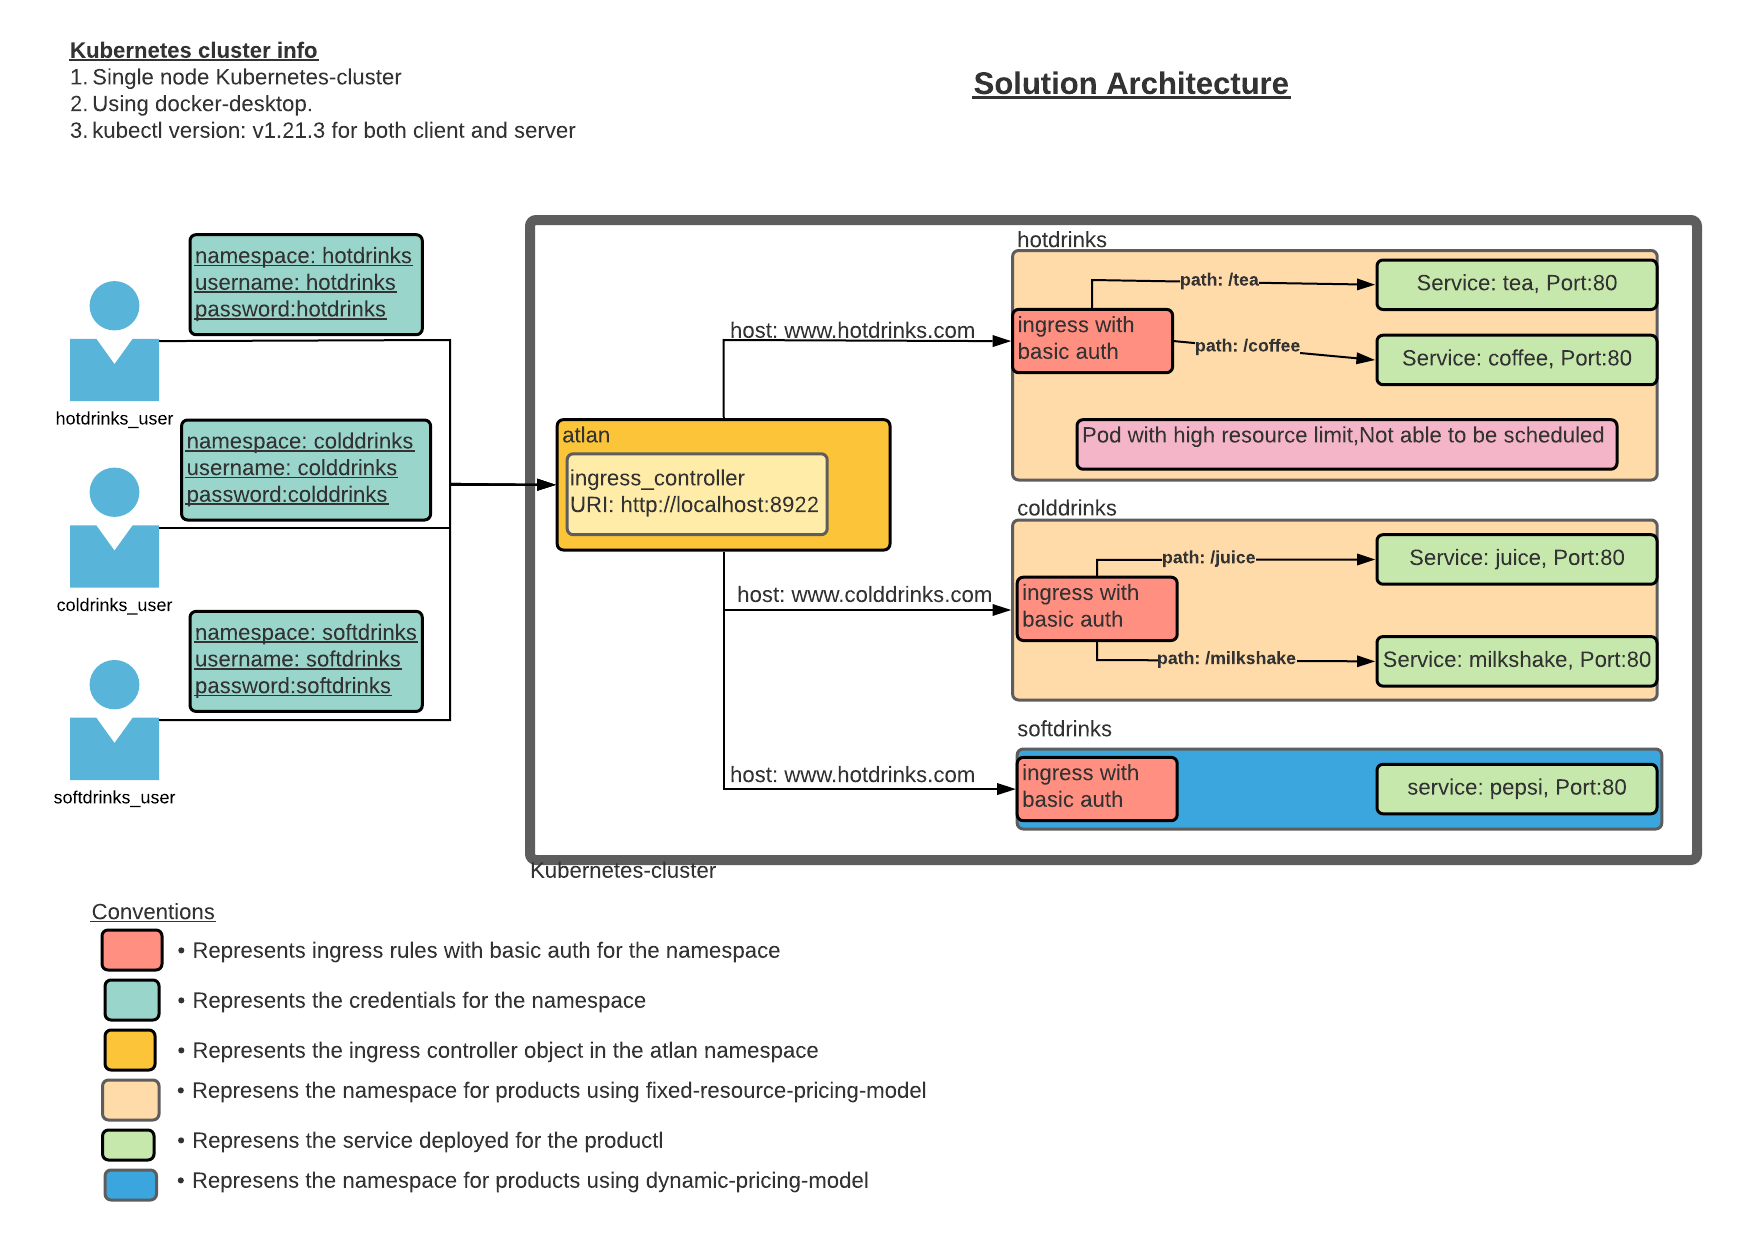
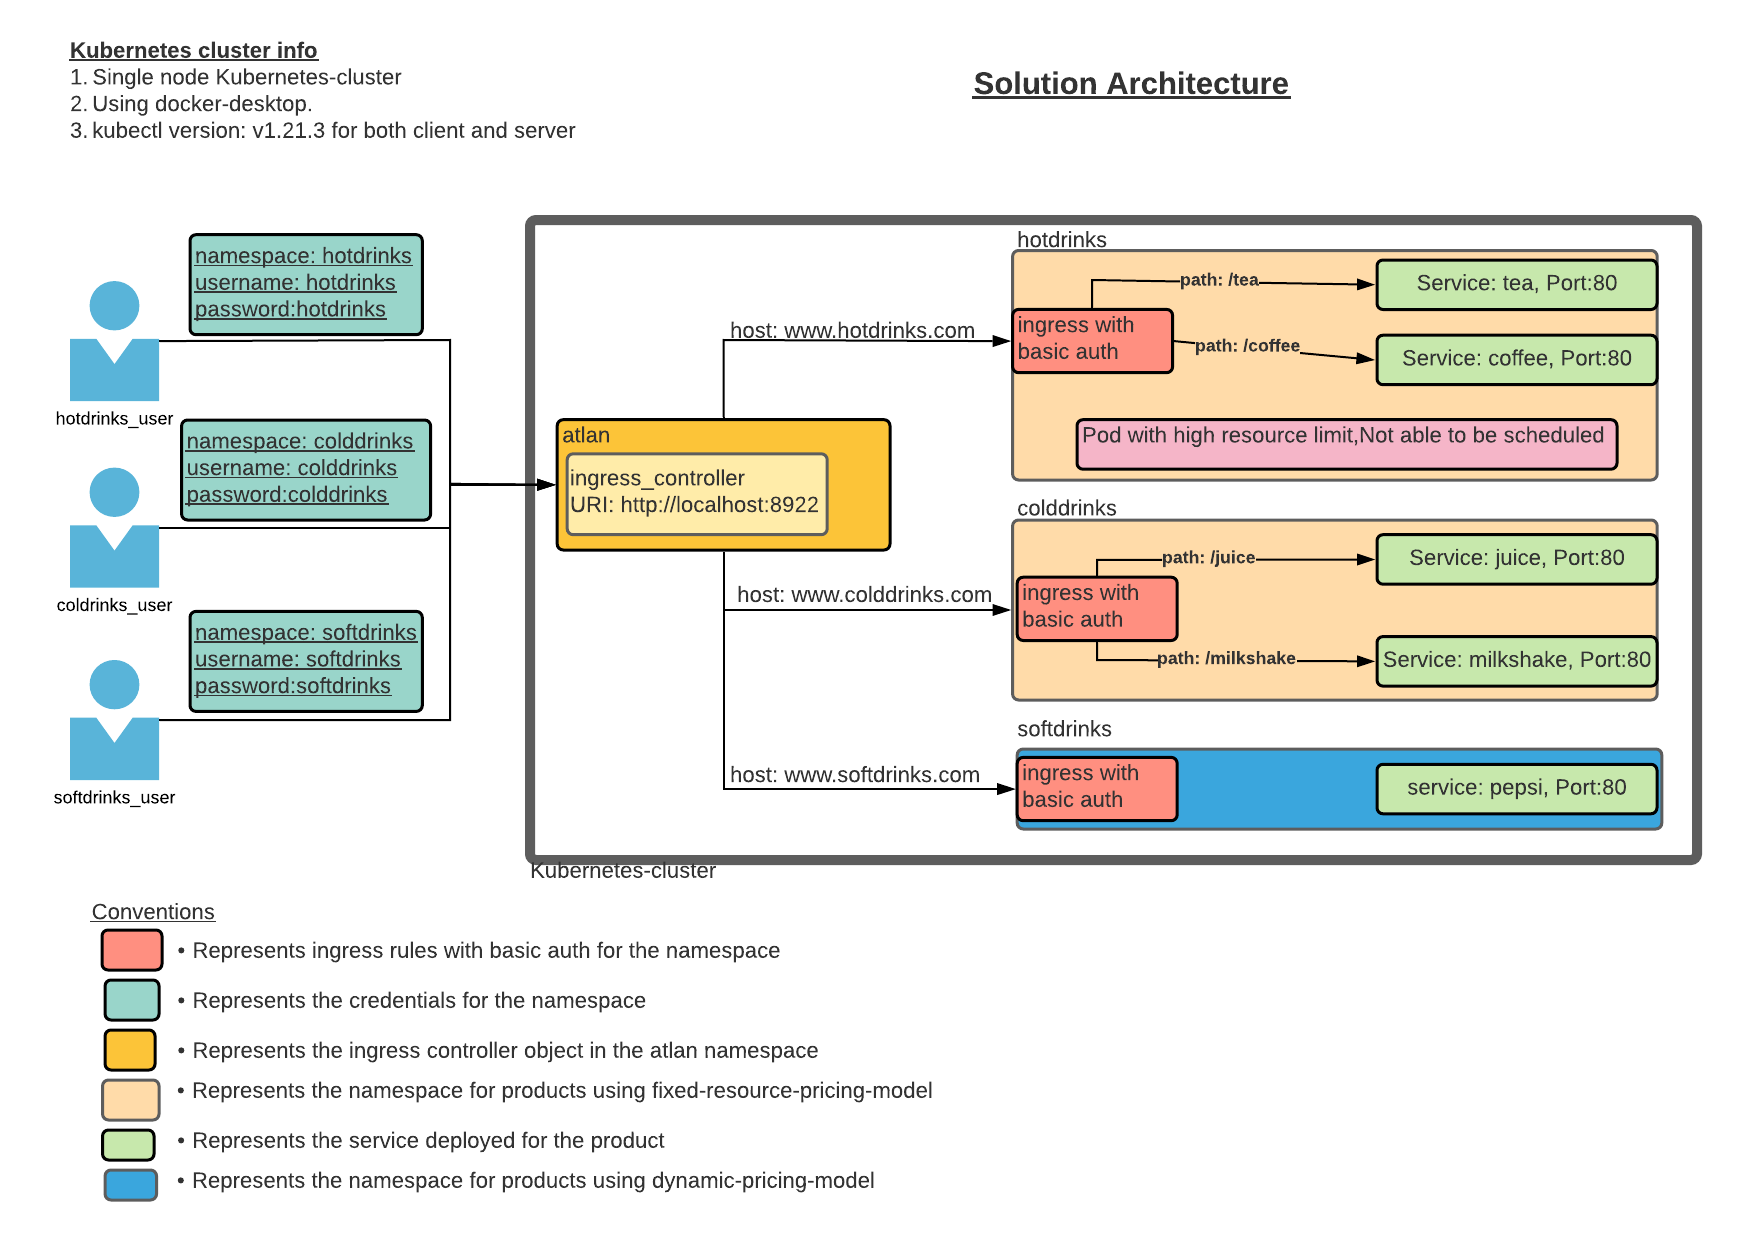
chkin-3

Changed region(s): [[0.1554, 0.8424, 0.5285, 0.9672], [0.4974, 0.5928, 0.5596, 0.624]]

diff --git a/README.md b/README.md
@@ -5,10 +5,10 @@ link : https://www.notion.so/Hiring-Task-Senior-Cloud-Engineer-b67d07ffec45444f9
 To evaluate the Multi-tenancy approach and provide a detailed report with a working model for the multi-tenancy approach in Kubernetes. 
 
 # Solution
-The solution provides a working business model for multi-tenancy approach in Kubernetes. The solution is designed for a company named 'Atlan' that provides SaaS-offering hosting solution to the customers. For this demo, we will be treating 'Atlan' as the service provider company. 
+The solution provides a working business model for multi-tenancy approach in Kubernetes. The solution is designed for a company named 'Atlan' that provides service hosting solution to the customers usint SaaS business model. For this demo, we will be treating 'Atlan' as the service provider company. 
 Major components of the given business model is as given below.
 
-! Company | Business Role | Namespace in cluster | Service offered/consumed | 
+| Company | Business Role | Namespace in cluster | Service offered/consumed | 
 |---------|---------------|----------------------|---------------------------|
 | Atlan | Service Provider | atlan | Offers a hosting platform for consumers |
 | hotdrinks_corporation | consumer using Fixed-resource-quota model | hotdrinks | Service Name: tea, coffee |
@@ -33,3 +33,44 @@ Major components of the given business model is as given below.
 
 # Architecture
 ![Architecture](architecture_diagram.png)
+
+# Solution : Deep dive
+1. The solution is implemented using name based virtual hosting model(reference doc: https://kubernetes.io/docs/concepts/services-networking/ingress/#name-based-virtual-hosting) of ingress. Using this approach multiple consumers can be managed using single Public facing IP. This helps in cost reduction for atlan.
+2. Each customer will be identified as a namespace in the k8s cluster owned by atlan.
+3. We will use nginx as the ingress controller and it will be deployed in the atlan namespace.
+4. Any incoming traffic hitting the ingress controller will be forwarded to the service in the corresponding namespace if it satisfies the auth criteria and ingress rules configured in the ingress rules deployed for the namespace.
+5. All the service of the same namespace will be handled by single ingress object for the correspondin namespace.
+6. Resource isolation is achieved using the namespaces.
+7. Namespaces resource limits is controlled using the ResourceQuota object created for the namespace.
+8. Kubernetes cluster is owned and managed by atlan.
+
+# Setup details:
+1. Entire solution is implemented using a kubernetes cluster running on local windows laptop.
+2. We are running docker-desktop provided kubernetes cluster on the laptop. This is a single node kubernetes cluster solution.
+3. Kubernetes cluster details as given below:
+----
+1. cluster-info
+
+`
+> kubectl.exe cluster-info
+Kubernetes control plane is running at https://kubernetes.docker.internal:6443
+CoreDNS is running at https://kubernetes.docker.internal:6443/api/v1/namespaces/kube-system/services/kube-dns:dns/proxy
+`
+
+2. kubectl version 
+
+`      
+> kubectl.exe version
+Client Version: version.Info{Major:"1", Minor:"21", GitVersion:"v1.21.3", GitCommit:"ca643a4d1f7bfe34773c74f79527be4afd95bf39", GitTreeState:"clean", BuildDate:"2021-07-15T21:04:39Z", GoVersion:"go1.16.6", Compiler:"gc", Platform:"windows/amd64"}
+Server Version: version.Info{Major:"1", Minor:"21", GitVersion:"v1.21.3", GitCommit:"ca643a4d1f7bfe34773c74f79527be4afd95bf39", GitTreeState:"clean", BuildDate:"2021-07-15T20:59:07Z", GoVersion:"go1.16.6", Compiler:"gc", Platform:"linux/amd64"}          
+`
+----
+
+# Solution pre-requisites
+1. helm(version-3)
+2. openssl: Required to create the named-auth file.
+3. kubectl
+4. Azure samples chart (https://azure-samples.github.io/helm-charts/) used to bringup services for the demo
+    * Add the sample chart using this command. (helm repo add azure-samples https://azure-samples.github.io/helm-charts/)
+
+

diff --git a/colddrinks/colddrinks.md b/colddrinks/colddrinks.md
@@ -1,0 +1,62 @@
+# Solution Implementation
+1. These are the steps to be performed in the colddrinks namespace.
+
+# Steps
+## Namespace creation
+    `kubectl create ns colddrinks`
+
+## Set resource quota
+1. We need to set the resource quota for colddrinks company because the colddrinks consumer is using Fixed-resource-quota model.
+2. Implement a ResourceQuota object in the colddrinks namespace using the [quota.yaml](quota.yaml) file.
+
+    `kubectl apply -f quota.yaml -n colddrinks`
+
+## Deploy services in the colddrinks namespace
+1. Deploy juice service.
+----
+`
+helm install juice azure-samples/aks-helloworld `
+    --namespace colddrinks `
+    --set title="Time to drink juice          -colddrinks_corporation" `
+    --set serviceName="juice"
+`
+
+2. Deploy milkshake service
+
+`
+helm install milkshake azure-samples/aks-helloworld `
+    --namespace colddrinks `
+    --set title="Time to drink milkshake          -colddrinks_corporation" `
+    --set serviceName="milkshake"
+
+----
+
+## Create a named-auth file using openssl
+
+    `USER="colddrinks"; PASSWORD="colddrinks"; echo "${USER}:$(openssl passwd -stdin -apr1 <<< ${PASSWORD})" >> auth`
+
+## Create a basic-auth secret object
+    ` kubectl create secret generic basic-auth --from-file=auth -n colddrinks`
+
+## Deploy the ingress rules
+1. Ingress rules are defined in the [newingress_colddrinks.yaml](newingress_colddrinks.yaml) file.
+2. Deploy the ingress rules in the colddrinks namespace.
+
+        ` kubectl apply -f newingress_colddrinks.yaml -n colddrinks`
+
+## Check the resourcequota.
+1. Check the resourcequota due to the resource deployed in the colddrinks namespace.
+
+        `kubectl get resourcequota resourcequota --namespace=colddrinks --output=yaml`
+2. Observe the namespace has unused mem and cpu limits available in the colddrinks namespace.
+
+## Deploy resources to exceed the resourcequota limits
+1. Try to deploy a pod resource that has resource requirements within the namespace limits.
+    ` kubectl apply -f allowed_pod.yaml -n colddrinks`
+2. Deploy another pod so that resource requirements exceed the namespace limits.
+    ` kubectl apply -f failed_pod.yaml -n colddrinks`
+3. Verify the second pod deployment failed with following error.
+`
+PS C:\Users\bibhavj\k8s\bibhav_atlan\colddrinks> kubectl.exe apply -f .\failed_pod.yaml -n colddrinks
+Error from server (Forbidden): error when creating ".\\failed_pod.yaml": pods "failedpod" is forbidden: exceeded quota: resourcequota, requested: requests.cpu=150m,requests.memory=161061273600m, used: requests.cpu=150m,requests.memory=161061273600m, limited: requests.cpu=250m,requests.memory=256Mi
+`

diff --git a/hotdrinks/hotdrinks.md b/hotdrinks/hotdrinks.md
@@ -1,0 +1,52 @@
+# Solution Implementation
+1. These are the steps to be performed in the hotdrinks namespace.
+
+# Steps
+## Namespace creation
+    `kubectl create ns hotdrinks`
+
+## Set resource quota
+1. We need to set the resource quota for hotdrinks company because the hotdrinks consumer is using Fixed-resource-quota model.
+2. Implement a ResourceQuota object in the colddrinks namespace using the [quota.yaml](quota.yaml) file.
+
+    `kubectl apply -f quota.yaml -n hotdrinks`
+
+## Deploy services in the hotdrinks namespace
+1. Deploy tea service.
+----
+`
+helm install tea azure-samples/aks-helloworld `
+    --namespace hotdrinks `
+    --set title="Time to drink tea          -hotdrinks_corporation" `
+    --set serviceName="tea"
+`
+
+2. Deploy coffee service
+
+`
+helm install coffee azure-samples/aks-helloworld `
+    --namespace hotdrinks `
+    --set title="Time to drink coffee          -hotdrinks_corporation" `
+    --set serviceName="coffee"
+
+----
+
+## Create a named-auth file using openssl
+
+    `USER="hotdrinks"; PASSWORD="hotdrinks"; echo "${USER}:$(openssl passwd -stdin -apr1 <<< ${PASSWORD})" >> auth`
+
+## Create a basic-auth secret object
+    ` kubectl create secret generic basic-auth --from-file=auth -n hotdrinks`
+
+## Deploy the ingress rules
+1. Ingress rules are defined in the [newingress_hotdrinks.yaml](newingress_hotdrinks.yaml) file.
+2. Deploy the ingress rules in the hotdrinks namespace.
+
+        ` kubectl apply -f newingress_hotdrinks.yaml -n hotdrinks`
+
+## Check the resourcequota.
+1. Check the resourcequota due to the resource deployed in the hotdrinks namespace.
+
+        `kubectl get resourcequota resourcequota --namespace=hotdrinks --output=yaml`
+2. Observe the namespace has unused mem and cpu limits available in the colddrinks namespace.
+`

diff --git a/softdrinks/softdrinks.md b/softdrinks/softdrinks.md
@@ -1,0 +1,45 @@
+# Solution Implementation
+1. These are the steps to be performed in the softdrinks namespace.
+
+# Steps
+## Namespace creation
+    `kubectl create ns softdrinks`
+
+## No resource quota set-up for softdrinks
+As softdrinks customer uses dynamic-pricing-model. We dont need to create any resource quota for this namespace.
+
+## Deploy services in the softdrinks namespace
+1. Deploy pepsi service.
+----
+`
+helm install pepsi azure-samples/aks-helloworld `
+    --namespace softdrinks `
+    --set title="Time to drink pepsi          -softdrinks_corporation" `
+    --set serviceName="pepsi"
+`
+
+# softdrinks_corporation
+helm install pepsi azure-samples/aks-helloworld `
+    --namespace softdrinks `
+    --set title="Time to drink pepsi          -softdrinks_corporation" `
+    --set serviceName="pepsi"
+
+## Create a named-auth file using openssl
+
+    `USER="softdrinks"; PASSWORD="softdrinks"; echo "${USER}:$(openssl passwd -stdin -apr1 <<< ${PASSWORD})" >> auth`
+
+## Create a basic-auth secret object
+    ` kubectl create secret generic basic-auth --from-file=auth -n softdrinks`
+
+## Deploy the ingress rules
+1. Ingress rules are defined in the [newingress_softdrinks.yaml](newingress_softdrinks.yaml) file.
+2. Deploy the ingress rules in the softdrinks namespace.
+
+        ` kubectl apply -f newingress_softdrinks.yaml -n softdrinks`
+
+
+
+
+
+
+

diff --git a/atlan/atlan.md b/atlan/atlan.md
@@ -1,0 +1,14 @@
+# Solution Implementation
+1. These are the steps to be performed in the atlan namespace.
+
+# Steps
+## Namespace creation
+* kubectl create ns atlan
+
+## Install nginx
+1. Add the chart for nginx ingress controller.
+    * helm repo add ingress-nginx https://kubernetes.github.io/ingress-nginx
+2. Update the helm repository.
+    * helm repo update
+3. Deploy the ingress-nginx chart in the atlan namespace.
+    * helm install ingress-nginx ingress-nginx/ingress-nginx -n atlan
